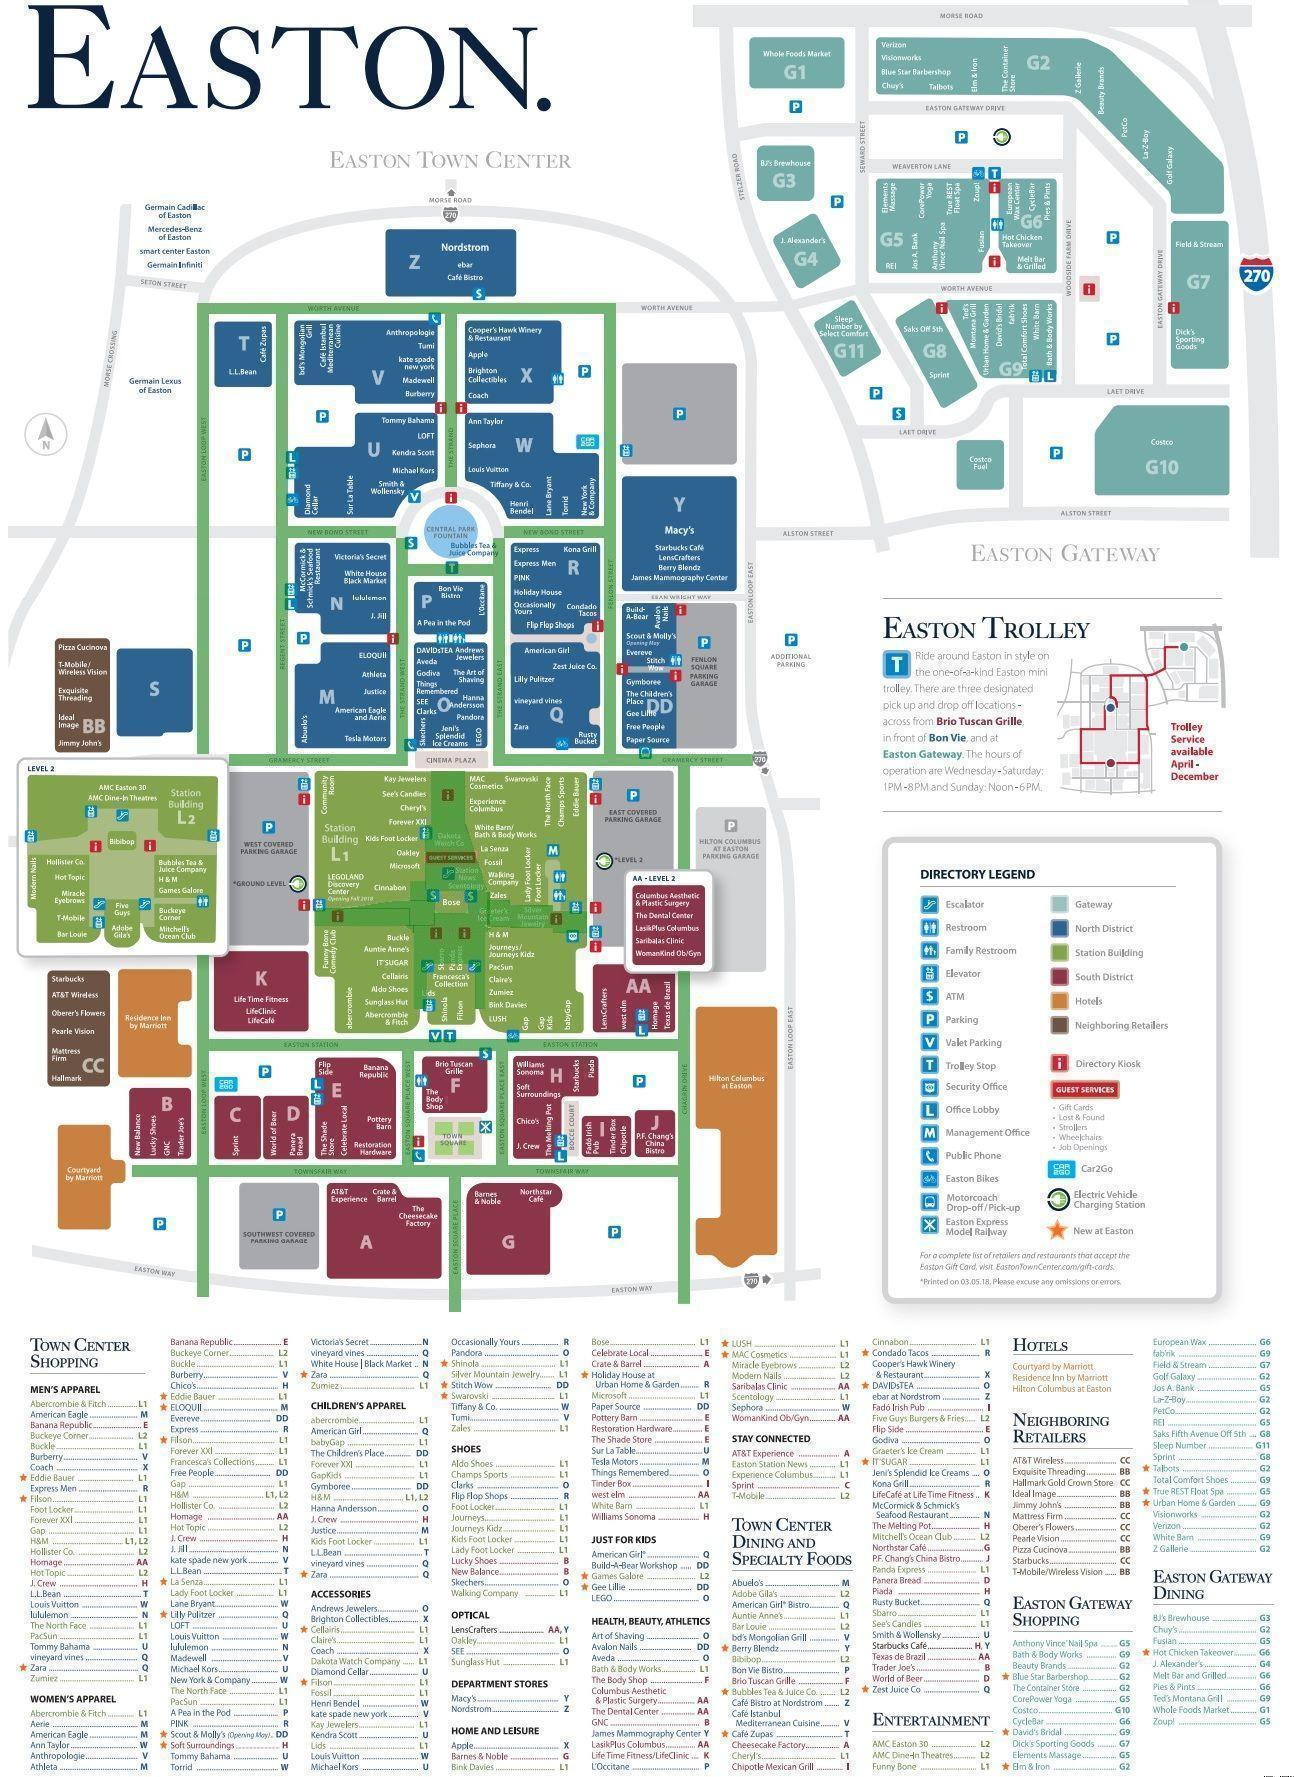
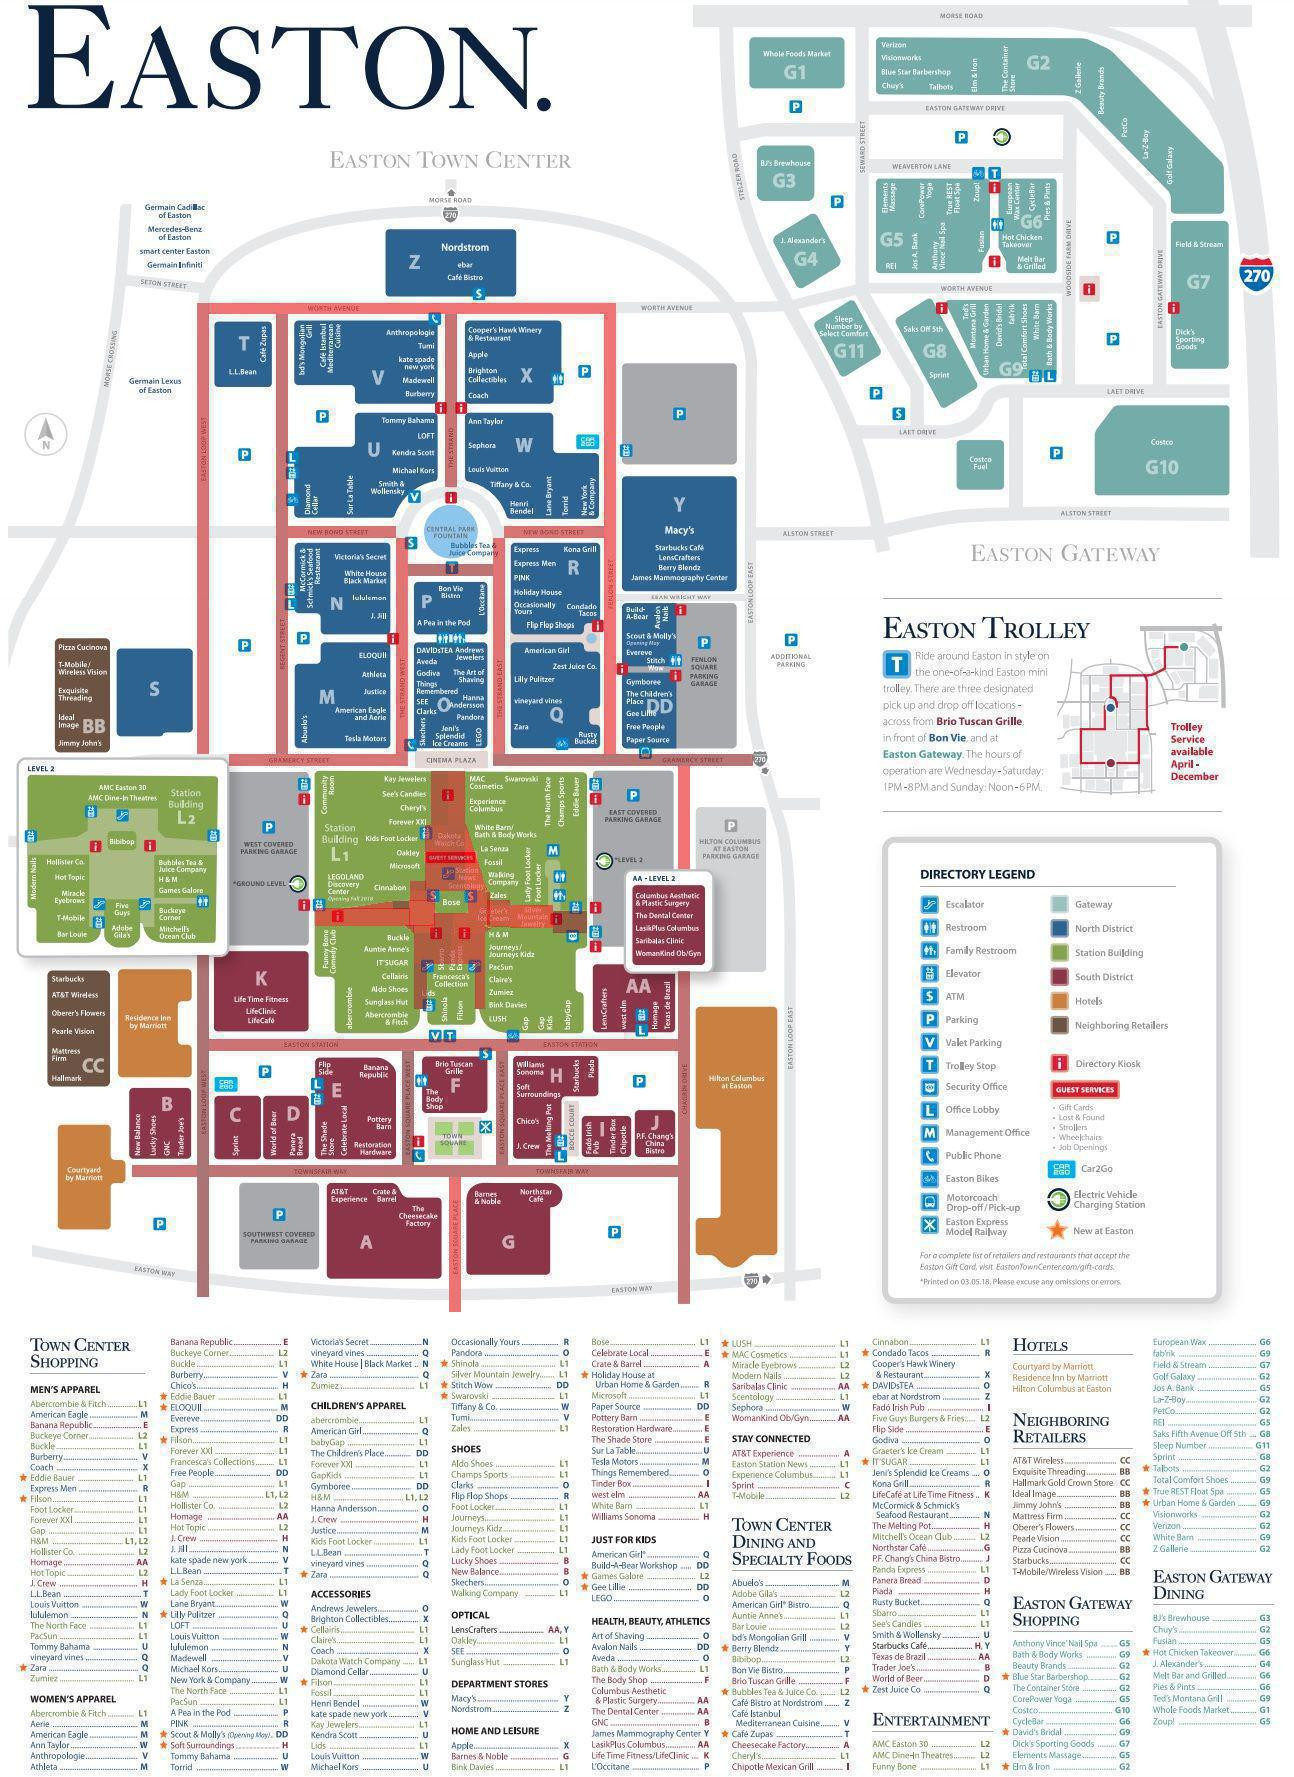
Link model to UI generator

Changed region(s): [[0.0927, 0.1548, 0.5873, 0.7428]]

diff --git a/generator.py b/generator.py
@@ -1,5 +1,11 @@
-import random
+import random, model, math
+import numpy as np
 from PIL import Image, ImageDraw
+
+labels = np.load("archive/labels.npy").flatten()
+ds = [x for x in model.make_ds("archive/frames/",labels,False,1).as_numpy_iterator()]
+ds_range = (max(labels/(480*640))-min(labels/(480*640))) 
+print(ds_range)
 
 
 # Draws shape based off image given, the x and y parameters, color, and output path
@@ -18,119 +24,119 @@ def draw_triangle(x1, y1, x2, y2, x3, y3, color):
     draw.polygon(((x1, y1), (x2, y2), (x3, y3)), outline=(0, 0, 0, 0), width=0)
     image.save("Images/output.jpg")
 
+calc_pct = lambda pred: (pred/(480*640))/ds_range
 
-def get_color(percentage):
-    color = (0, 128, 0, 127)
-    if percentage > 0.5:
-        color = (255, 0, 0, 127)
+def get_color():
+    pred = model.predict(ds[random.randint(0,1999)][0])
+    color = (math.ceil(255*calc_pct(pred)),0, 0, 127)
     return color
 
 
-if __name__ == "__main__":
-    test_color = get_color(0.3)
+def run():
 
     # Opens initial image file and saves a copy and names it output.jpg
     initial_easton_image = Image.open("Images/EastonMall.jpg")
     output_image = initial_easton_image.copy()
     output_image.save("Images/output.jpg")
 
-    draw_rect( 288, 526, 395, 537, test_color)
+    draw_rect( 288, 526, 395, 537, get_color())
 
     # Creates map with first space for New Bond Street Right
-    draw_rect(504, 526, 603, 537, test_color)
+    draw_rect(504, 526, 603, 537, get_color())
 
     # Creates map with space for the strand
     # west
-    draw_rect(396, 538, 407, 753, test_color)
+    draw_rect(396, 538, 407, 753, get_color())
     # east
-    draw_rect(493, 538, 504, 753, test_color)
+    draw_rect(493, 538, 504, 753, get_color())
     # north
-    draw_rect(445, 314, 456, 486, test_color)
+    draw_rect(445, 314, 456, 486, get_color())
 
     # Creates map with space for the central park bottom
-    draw_rect(408, 564, 492, 575,test_color)
+    draw_rect(408, 564, 492, 575,get_color())
 
     # Creates map with space for regent street
-    draw_rect(276, 314, 287, 753, test_color)
+    draw_rect(276, 314, 287, 753, get_color())
 
     # Creates map with space for worth avenue
-    draw_rect(209, 303, 615, 313, test_color)
+    draw_rect(209, 303, 615, 313, get_color())
 
     # Creates map for indoor top left
-    draw_rect(431, 771, 447, 824, test_color)
+    draw_rect(431, 771, 447, 824, get_color())
     # Creates map for indoor top middle left
-    draw_rect(425, 825, 447, 890, test_color)
-    draw_rect(410, 881, 425, 890, test_color)
-    draw_rect(410, 891, 434, 900, test_color)
+    draw_rect(425, 825, 447, 890, get_color())
+    draw_rect(410, 881, 425, 890, get_color())
+    draw_rect(410, 891, 434, 900, get_color())
 
     # Creates map for indoor top right
-    draw_rect(448, 771, 464, 824, test_color)
+    draw_rect(448, 771, 464, 824, get_color())
     # Creates map for indoor middle right
-    draw_rect(448, 825, 464, 890, test_color)
-    draw_triangle(465, 824, 486, 890, 465, 890, test_color)
+    draw_rect(448, 825, 464, 890, get_color())
+    draw_triangle(465, 824, 486, 890, 465, 890, get_color())
 
     # Creates map for middle left
-    draw_rect(315, 908, 409, 925, test_color)
-    draw_rect(409, 900, 434, 925,test_color)
-    draw_triangle(337, 909, 392, 901, 392, 908, test_color)
-    draw_rect(393, 901, 408, 908, test_color)
-    draw_triangle(405, 925, 413, 925, 413, 932, test_color)
-    draw_rect(413, 925, 433, 932, test_color)
-    draw_rect(434, 913, 452, 932, test_color)
+    draw_rect(315, 908, 409, 925, get_color())
+    draw_rect(409, 900, 434, 925,get_color())
+    draw_triangle(337, 909, 392, 901, 392, 908, get_color())
+    draw_rect(393, 901, 408, 908, get_color())
+    draw_triangle(405, 925, 413, 925, 413, 932, get_color())
+    draw_rect(413, 925, 433, 932, get_color())
+    draw_rect(434, 913, 452, 932, get_color())
 
     # Creates map for middle right
-    draw_rect(553, 911, 586, 932, test_color)
-    draw_rect(510, 905, 552, 927, test_color)
-    draw_rect(487, 905, 509, 926, test_color)
-    draw_rect(487, 900, 509, 904, test_color)
-    draw_rect(485, 892, 489, 924, test_color)
-    draw_triangle(485, 926, 490, 928, 485, 931, test_color)
-    draw_rect(453, 913, 484, 932, test_color)
-    draw_rect(468, 891, 484, 912, test_color)
+    draw_rect(553, 911, 586, 932, get_color())
+    draw_rect(510, 905, 552, 927, get_color())
+    draw_rect(487, 905, 509, 926, get_color())
+    draw_rect(487, 900, 509, 904, get_color())
+    draw_rect(485, 892, 489, 924, get_color())
+    draw_triangle(485, 926, 490, 928, 485, 931, get_color())
+    draw_rect(453, 913, 484, 932, get_color())
+    draw_rect(468, 891, 484, 912, get_color())
 
     # Creates map for bottom left
-    draw_rect(414, 933, 450, 963, test_color)
-    draw_rect(414, 964, 426, 1008, test_color)
+    draw_rect(414, 933, 450, 963, get_color())
+    draw_rect(414, 964, 426, 1008, get_color())
 
     # Creates map for bottom right
-    draw_rect(451, 933, 484, 963, test_color)
-    draw_rect(475, 964, 484, 1008, test_color)
+    draw_rect(451, 933, 484, 963, get_color())
+    draw_rect(475, 964, 484, 1008, get_color())
 
     # Gremacy Street West
-    draw_rect(229, 754, 407, 765, test_color)
+    draw_rect(229, 754, 407, 765, get_color())
 
     # Gremacy Street East
-    draw_rect(493, 754, 752, 765, test_color)
+    draw_rect(493, 754, 752, 765, get_color())
 
     # Easton Station
-    draw_rect(209, 1039, 677, 1050, test_color)
+    draw_rect(209, 1039, 677, 1050, get_color())
 
     # Easton Loop West
-    draw_rect(197, 955, 208, 1296, test_color)
-    draw_rect(197, 303, 208, 753, test_color)
+    draw_rect(197, 955, 208, 1296, get_color())
+    draw_rect(197, 303, 208, 753, get_color())
 
     # Fenlon Street
-    draw_rect(604, 314, 615, 753, test_color)
+    draw_rect(604, 314, 615, 753, get_color())
 
     # Easton Square Place West
-    draw_rect(402, 1051, 413, 1164, test_color)
+    draw_rect(402, 1051, 413, 1164, get_color())
 
     # Easton Square Place East
-    draw_rect(496, 1051, 507, 1164, test_color)
+    draw_rect(496, 1051, 507, 1164, get_color())
 
     # Easton Square Place South
-    draw_rect(449, 1177, 460, 1311, test_color)
+    draw_rect(449, 1177, 460, 1311, get_color())
 
     # Townsfair way West
-    draw_rect(132, 1165, 196, 1176, test_color)
+    draw_rect(132, 1165, 196, 1176, get_color())
 
     # Townsfair way
-    draw_rect(209, 1165, 677, 1176, test_color)
+    draw_rect(209, 1165, 677, 1176, get_color())
 
     # Chagrin Drive South
-    draw_rect(678, 971, 689, 1303, test_color)
+    draw_rect(678, 971, 689, 1303, get_color())
 
     # Chagrin Drive North
-    draw_rect(678, 766, 689, 868, test_color)
+    draw_rect(678, 766, 689, 868, get_color())
 
 
+run()

diff --git a/model.py b/model.py
@@ -4,8 +4,20 @@ import tensorflow as tf
 import matplotlib.pyplot as plt
 import statistics as stats
 import matplotlib as mp
+img_height = 480
+img_width = 640
 
 model = tf.keras.models.load_model(f"model")
+
+def make_ds(dir,labels, val, batch_size):
+    ret = tf.keras.utils.image_dataset_from_directory(
+  dir,
+  # labels=list([classify(x) for x in labels]),
+  labels=list(labels),
+  seed=123,
+  image_size=(img_height, img_width),
+  batch_size=batch_size)
+    return ret
 
 def predict(images):
     return model.predict(images)

diff --git a/run.py b/run.py
@@ -1,0 +1,5 @@
+import generator, time
+
+while not input():
+    generator.run
+    time.sleep(1)
